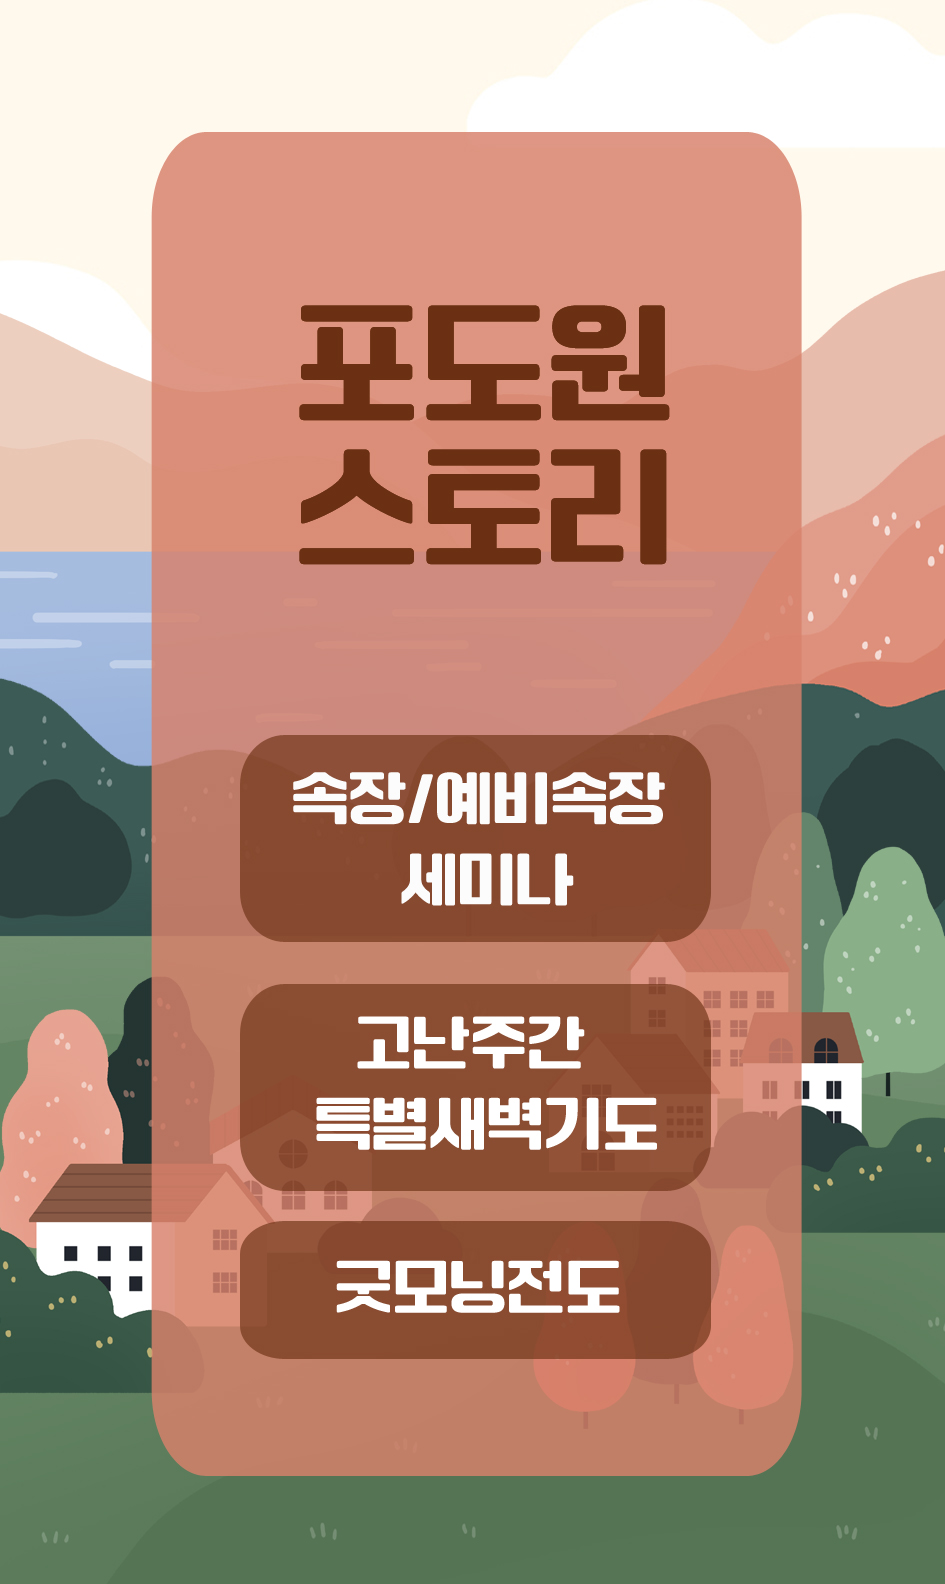
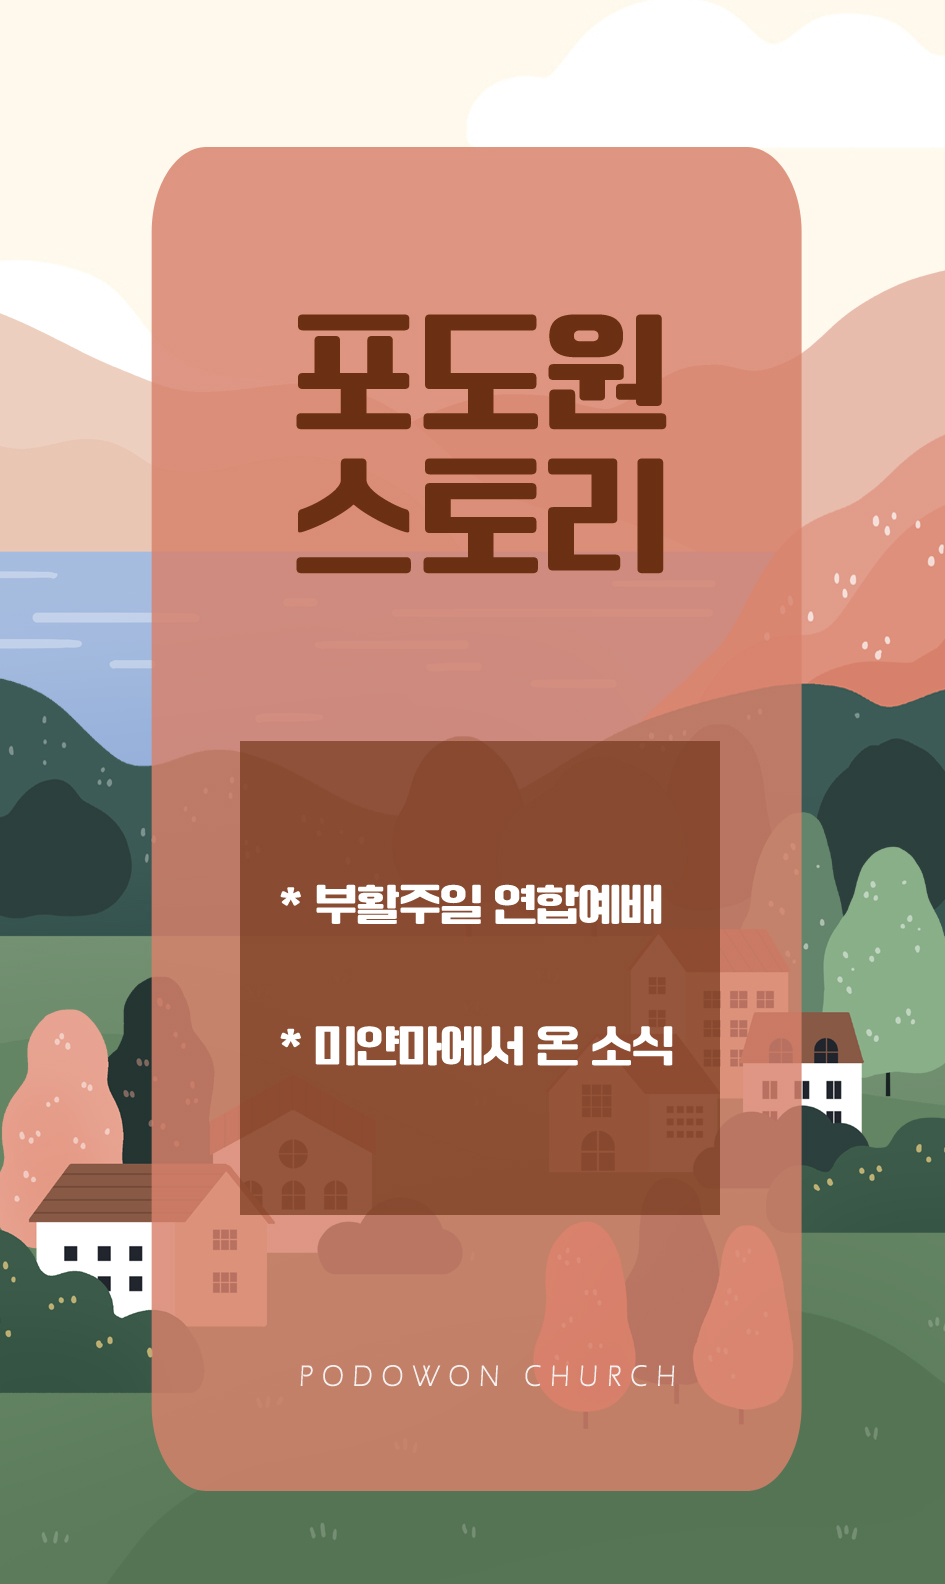
story

diff --git a/js/digital.js b/js/digital.js
@@ -294,16 +294,8 @@
 
         const story = [
         'asset/image/common/포도원스토리.webp',
-        'asset/image/digital_pre/세미나-1.webp',
-         'asset/image/digital_pre/세미나-2.webp',
-          'asset/image/digital_pre/세미나-3.webp',
-           'asset/image/digital_pre/특새-1.webp',
-            'asset/image/digital_pre/특새-2.webp',
-             'asset/image/digital/굿모닝전도-1.webp',
-              'asset/image/digital/굿모닝전도-2.webp',
-              'asset/image/digital/굿모닝전도-3.webp',
-              'asset/image/digital/굿모닝전도-4.webp',
-              'asset/image/digital/굿모닝전도-5.webp',
+        'asset/image/digital_pre/연합예배-1.webp',
+         'asset/image/digital_pre/연합예배-2.webp',
 
        
         ];
